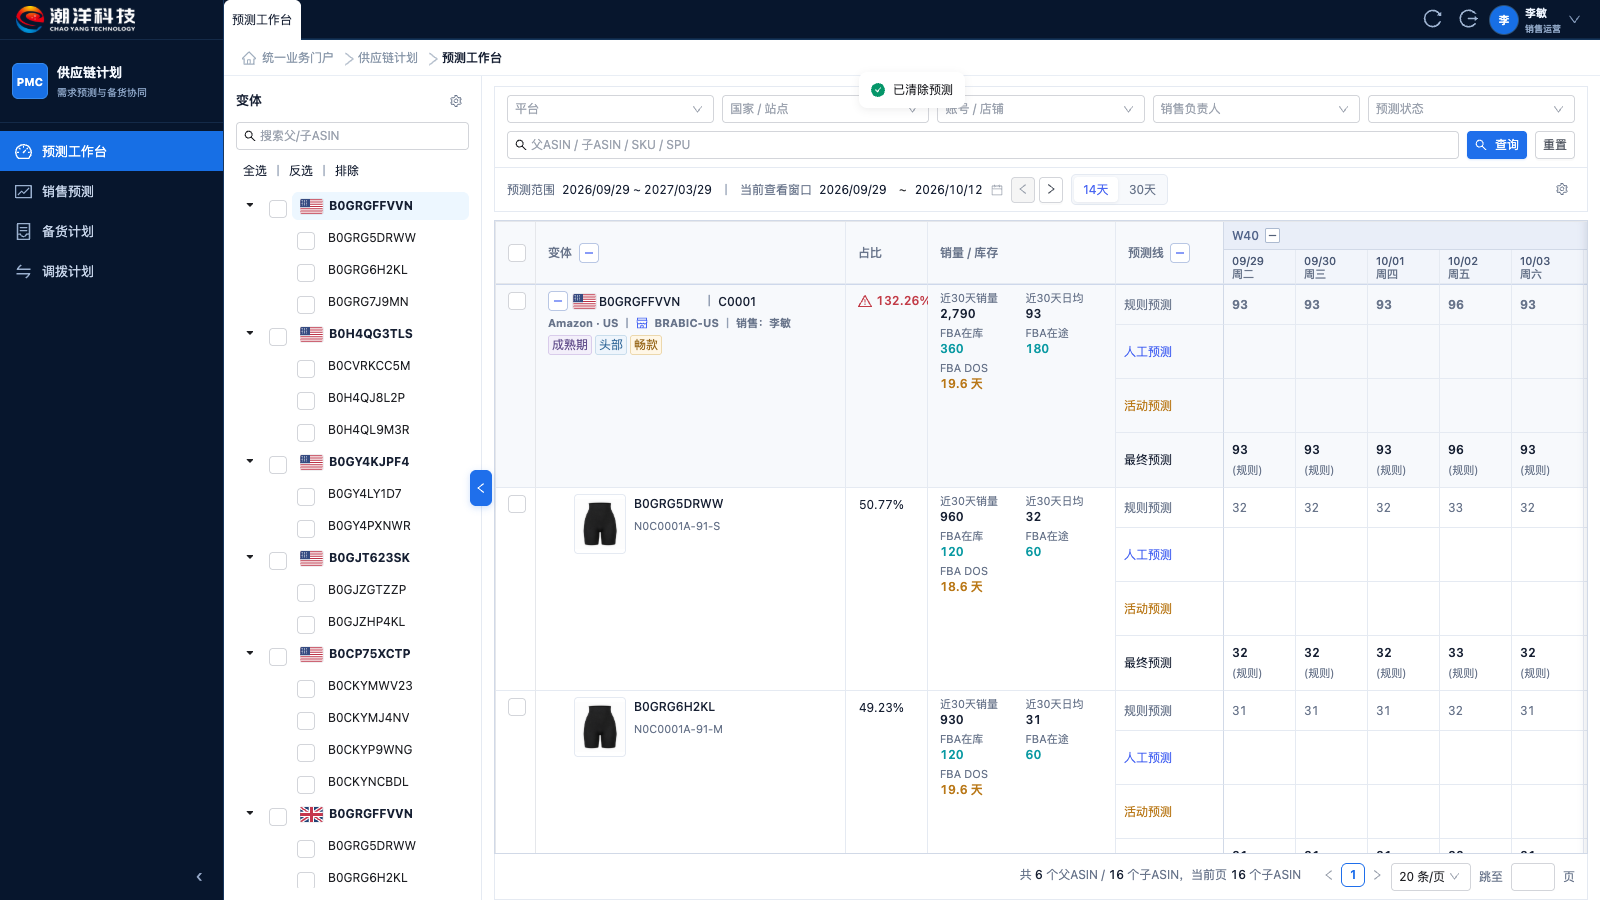
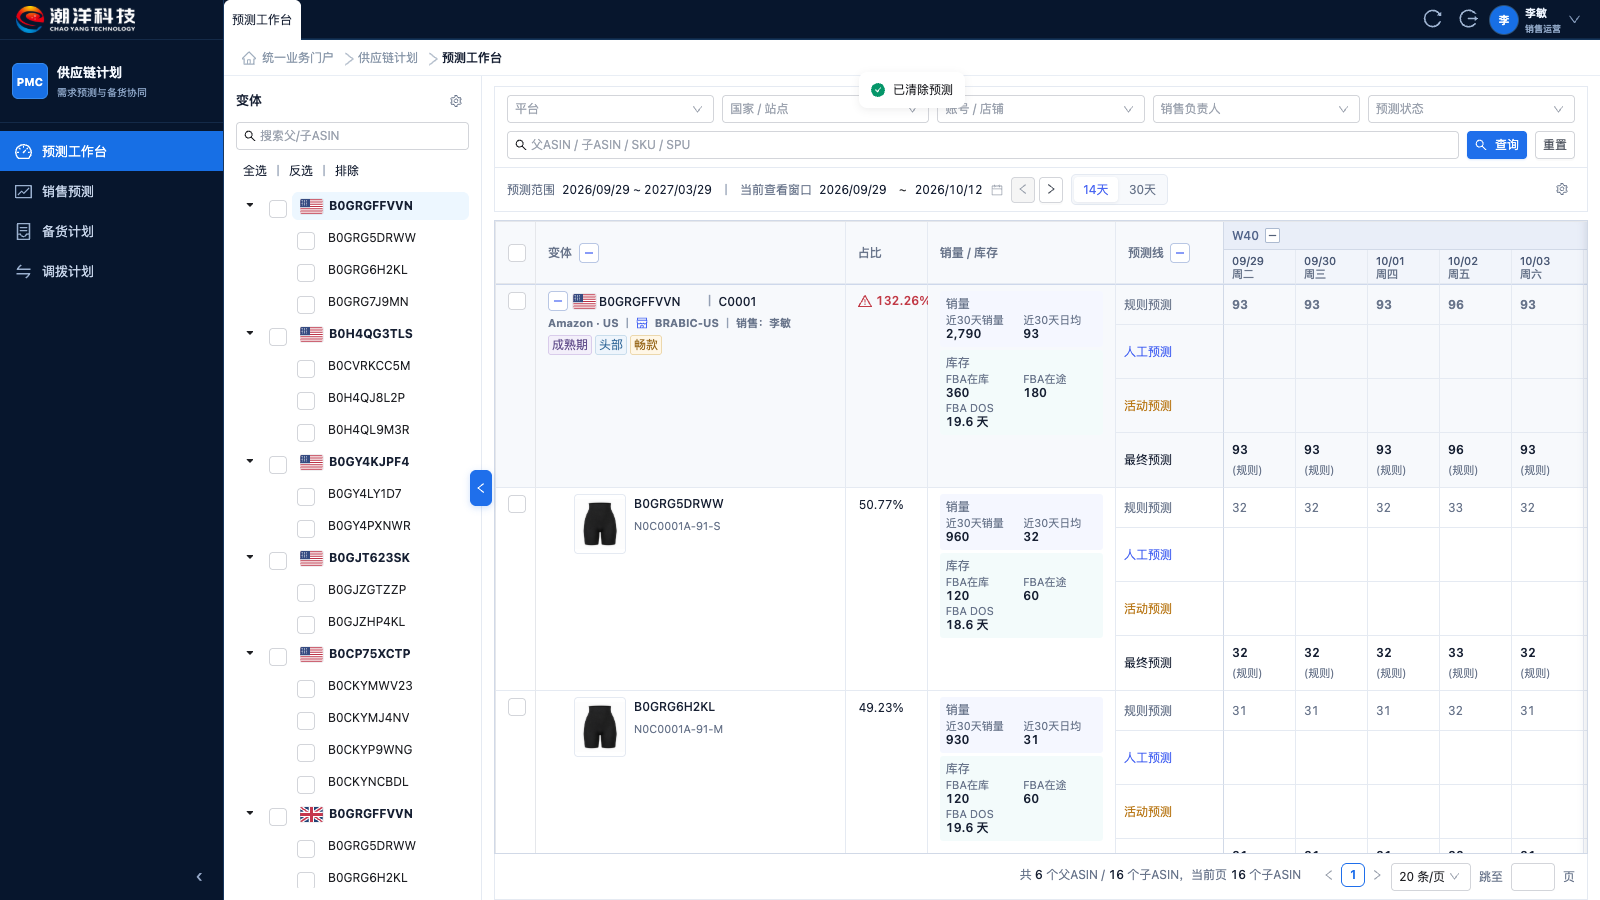
checkpoint: forecast workbench v0.3.47

diff --git a/供应链数字化_Codex完整项目接管包/04_原型/销售预测提报_独立原型_V0.1/reviews/v0.3.3-pmc11/forecast-workbench.js b/供应链数字化_Codex完整项目接管包/04_原型/销售预测提报_独立原型_V0.1/reviews/v0.3.3-pmc11/forecast-workbench.js
@@ -77,16 +77,20 @@
     );
   }
 
+  const workbenchMetricColumnKeys = ['recentSales', 'dailySales', 'fbaAvailable', 'fbaInbound', 'dos'];
   const workbenchColumnCatalog = [
+    { key: 'share', label: '占比', group: '列表字段', reorderable: false },
     { key: 'recentSales', label: '近30天销量', group: '销量 / 库存' },
     { key: 'dailySales', label: '近30天日均', group: '销量 / 库存' },
     { key: 'fbaAvailable', label: 'FBA在库', group: '销量 / 库存' },
     { key: 'fbaInbound', label: 'FBA在途', group: '销量 / 库存' },
-    { key: 'dos', label: 'FBA DOS', group: '销量 / 库存' }
+    { key: 'dos', label: 'FBA DOS', group: '销量 / 库存' },
+    { key: 'forecastLine', label: '预测线', group: '列表字段', reorderable: false },
+    { key: 'forecastPeriods', label: '日期预测', group: '列表字段', reorderable: false }
   ];
   const defaultWorkbenchColumns = workbenchColumnCatalog.map(field => field.key);
-  const compactWorkbenchColumns = ['dailySales', 'fbaAvailable', 'dos'];
-  const workbenchColumnStorageKey = 'pmc-forecast-workbench-columns-v1';
+  const compactWorkbenchColumns = ['dailySales', 'fbaAvailable', 'dos', 'forecastLine', 'forecastPeriods'];
+  const workbenchColumnStorageKey = 'pmc-forecast-workbench-columns-v2';
   const workbenchShareStorageKey = 'pmc-forecast-workbench-shares-v1';
 
   function loadStoredList(key, fallback) {
@@ -326,7 +330,7 @@
     const [treeExcludedKeys, setTreeExcludedKeys] = useState(() => new Set(restoredWorkbench.treeExcludedKeys || []));
     const [treePanelCollapsed, setTreePanelCollapsed] = useState(Boolean(restoredWorkbench.treePanelCollapsed));
     const [expandedRowKeys, setExpandedRowKeys] = useState(restoredWorkbench.expandedRowKeys || []);
-    const [expandedForecastKeys, setExpandedForecastKeys] = useState(() => new Set(restoredWorkbench.expandedForecastKeys || []));
+    const [expandedForecastKeys, setExpandedForecastKeys] = useState(() => Array.isArray(restoredWorkbench.expandedForecastKeys) ? new Set(restoredWorkbench.expandedForecastKeys) : null);
     const [hoveredColumn, setHoveredColumn] = useState(null);
     const [hoveredRow, setHoveredRow] = useState(null);
     const [page, setPage] = useState(restoredWorkbench.page || 1);
@@ -567,7 +571,7 @@
     const pageRows = useMemo(() => rows.slice((page - 1) * pageSize, page * pageSize), [page, pageSize, rows]);
     const tableRows = useMemo(() => {
       const lineRows = entity => {
-        const lines = expandedForecastKeys.has(entity.key) ? ['system', 'manual', 'activity', 'final'] : ['final'];
+        const lines = expandedForecastKeys == null || expandedForecastKeys.has(entity.key) ? ['system', 'manual', 'activity', 'final'] : ['final'];
         const { children: variantChildren, ...entityFields } = entity;
         return lines.map((forecastLine, lineIndex) => ({
           ...entityFields,
@@ -604,7 +608,11 @@
       };
     };
     const headerEvents = (columnKey, extra = '') => ({ className: columnClass(columnKey, null, extra), style: gridBorderStyle });
-    const fixedBoundaryEvents = events => ({ ...events, style: { ...events.style, borderInlineEnd: `1px solid ${uiStandards.colors?.borderStrong || '#d1d9e7'}` } });
+    const fixedBoundaryEvents = events => ({
+      ...events,
+      className: `${events.className || ''} fpw-fixed-boundary`.trim(),
+      style: { ...events.style, borderInlineEnd: `1px solid ${uiStandards.colors?.borderStrong || '#d1d9e7'}` }
+    });
 
     const defaultColumnWidth = key => key.startsWith('date:') ? forecastTableStandards.dayWidth : key.startsWith('collapsed:') ? forecastTableStandards.weekTotalWidth : ({ identity: 310, share: 82, context: 188, forecastLine: 108 }[key] || 68);
     const resizeLimits = key => key === 'identity' ? [0, 640] : key.startsWith('date:') ? [0, 180] : [0, 240];
@@ -749,7 +757,7 @@
         collapsedWeeks: [...collapsedWeeks],
         selectedKey: drawerRow.entityKey || drawerRow.key,
         expandedRowKeys: [...new Set([...expandedRowKeys, `parent:${drawerRow.group.id}`])],
-        expandedForecastKeys: [...new Set([...expandedForecastKeys, drawerRow.entityKey || drawerRow.key])],
+        expandedForecastKeys: expandedForecastKeys == null ? null : [...new Set([...expandedForecastKeys, drawerRow.entityKey || drawerRow.key])],
         treeExpandedKeys: [...treeExpandedKeys],
         treeCheckedKeys: [...treeCheckedKeys],
         treeExcludedKeys: [...treeExcludedKeys],
@@ -827,26 +835,40 @@
       dos: 'FBA可售库存按当前日均销量折算的可售天数'
     };
     const fieldTitle = (title, key) => h(Tooltip, { title: metricHints[key], mouseEnterDelay: 0.2 }, h('span', { className: 'fpw-field-title', tabIndex: 0 }, title));
-    const visibleColumnKeys = columnConfig.keys;
+    const visibleMetricKeys = columnConfig.keys.filter(key => workbenchMetricColumnKeys.includes(key));
     const forecastLineKeys = ['system', 'manual', 'activity', 'final'];
     const forecastLineLabels = { system: '规则预测', manual: '人工预测', activity: '活动预测', final: '最终预测' };
     const forecastSourceLabels = window.ForecastLedgerValues?.sourceLabels || { system: '规则', manual: '人工', activity: '活动' };
     const metricDefinitions = {
       recentSales: { label: '近30天销量', value: row => formatNumber(row.recentSales) },
       dailySales: { label: '近30天日均', value: row => formatNumber(row.dailySales) },
-      fbaAvailable: { label: 'FBA在库', value: row => formatNumber(row.fbaAvailable), tone: 'stock' },
-      fbaInbound: { label: 'FBA在途', value: row => formatNumber(row.fbaInbound), tone: 'stock' },
-      dos: { label: 'FBA DOS', value: row => row.dos == null ? '—' : `${formatNumber(row.dos)} 天`, tone: row => Number(row.dos) < 20 ? 'warn' : '' }
+      fbaAvailable: { label: 'FBA在库', value: row => formatNumber(row.fbaAvailable) },
+      fbaInbound: { label: 'FBA在途', value: row => formatNumber(row.fbaInbound) },
+      dos: { label: 'FBA DOS', value: row => row.dos == null ? '—' : `${formatNumber(row.dos)} 天` }
     };
-    const contextContent = row => h('div', { className: 'fpw-metric-grid metric-grid' }, visibleColumnKeys.map(key => {
-      const definition = metricDefinitions[key];
-      if (!definition) return null;
-      const tone = typeof definition.tone === 'function' ? definition.tone(row) : definition.tone || '';
-      return h('div', { className: 'fpw-metric metric', key },
-        h(Tooltip, { title: metricHints[key], mouseEnterDelay: 0.2 }, h('label', { tabIndex: 0 }, definition.label)),
-        h('strong', { className: tone }, definition.value(row))
-      );
-    }));
+    const contextContent = row => {
+      const sections = [];
+      visibleMetricKeys.forEach(key => {
+        const sectionKey = ['recentSales', 'dailySales'].includes(key) ? 'sales' : 'stock';
+        const sectionLabel = sectionKey === 'sales' ? '销量' : '库存';
+        if (sections.at(-1)?.key !== sectionKey) sections.push({ key: sectionKey, label: sectionLabel, fields: [] });
+        sections.at(-1).fields.push(key);
+      });
+      return h(React.Fragment, null, ...sections.map((section, sectionIndex) => h('section', {
+        className: 'fpw-context-section context-section',
+        'data-section': section.key,
+        key: `${section.key}-${sectionIndex}`
+      },
+      h('div', { className: 'fpw-context-section-title context-section-title' }, section.label),
+      h('div', { className: 'fpw-metric-grid metric-grid' }, section.fields.map(key => {
+        const definition = metricDefinitions[key];
+        return h('div', { className: 'fpw-metric metric', 'data-field': key, key },
+          h(Tooltip, { title: metricHints[key], mouseEnterDelay: 0.2 }, h('label', { tabIndex: 0 }, definition.label)),
+          h('strong', null, definition.value(row))
+        );
+      }))
+      )));
+    };
 
     const openSharedForecastEditor = (row, line, date, event) => {
       event?.stopPropagation?.();
@@ -991,7 +1013,7 @@
     );
 
     const allForecastKeys = rows.flatMap(parent => [parent.key, ...parent.children.map(child => child.key)]);
-    const allForecastExpanded = allForecastKeys.length > 0 && allForecastKeys.every(key => expandedForecastKeys.has(key));
+    const allForecastExpanded = expandedForecastKeys == null || (allForecastKeys.length > 0 && allForecastKeys.every(key => expandedForecastKeys.has(key)));
     const forecastHeaderAction = h(Tooltip, { title: allForecastExpanded ? '收起全部预测线' : '展开全部预测线' }, h(Button, {
       type: 'text', size: 'small', className: 'forecast-state-toggle fpw-forecast-toggle', icon: stateToggleGlyph(allForecastExpanded),
       'aria-label': allForecastExpanded ? '收起全部预测线' : '展开全部预测线',
@@ -1059,13 +1081,26 @@
       onHeaderCell: () => headerEvents('share', 'fpw-header-cell fpw-share-header')
     };
 
-    const columns = [
-      { title: resizableTitle('变体', 'identity', variantHeaderAction), key: 'identity', width: columnWidths.identity, fixed: 'left', render: (_, row) => identity(row), onCell: row => ({ ...cellEvents('identity', row.key, 'fpw-identity-cell'), rowSpan: row.lineIndex === 0 ? row.lineCount : 0 }), onHeaderCell: () => headerEvents('identity', 'fpw-header-cell fpw-identity-header') },
-      shareColumn,
-      visibleColumnKeys.length && { title: resizableTitle('销量 / 库存', 'context'), key: 'context', width: columnWidths.context, fixed: 'left', render: (_, row) => contextContent(row), onCell: row => ({ ...cellEvents('context', row.key, 'fpw-context-cell'), rowSpan: row.lineIndex === 0 ? row.lineCount : 0 }), onHeaderCell: () => headerEvents('context', 'fpw-header-cell fpw-context-header') },
-      { title: resizableTitle('预测线', 'forecastLine', forecastHeaderAction), key: 'forecastLine', width: columnWidths.forecastLine, fixed: 'left', render: (_, row) => forecastLineContent(row), onCell: row => fixedBoundaryEvents(cellEvents('forecastLine', row.key, 'fpw-line-cell fpw-fixed-boundary')), onHeaderCell: () => fixedBoundaryEvents(headerEvents('forecastLine', 'fpw-header-cell fpw-line-header fpw-fixed-boundary')) },
-      ...weekColumns
+    const identityColumn = { title: resizableTitle('变体', 'identity', variantHeaderAction), key: 'identity', width: columnWidths.identity, fixed: 'left', render: (_, row) => identity(row), onCell: row => ({ ...cellEvents('identity', row.key, 'fpw-identity-cell'), rowSpan: row.lineIndex === 0 ? row.lineCount : 0 }), onHeaderCell: () => headerEvents('identity', 'fpw-header-cell fpw-identity-header') };
+    const contextColumn = visibleMetricKeys.length && { title: resizableTitle('销量 / 库存', 'context'), key: 'context', width: columnWidths.context, fixed: 'left', render: (_, row) => contextContent(row), onCell: row => ({ ...cellEvents('context', row.key, 'fpw-context-cell'), rowSpan: row.lineIndex === 0 ? row.lineCount : 0 }), onHeaderCell: () => headerEvents('context', 'fpw-header-cell fpw-context-header') };
+    const forecastLineColumn = columnConfig.keys.includes('forecastLine') && { title: resizableTitle('预测线', 'forecastLine', forecastHeaderAction), key: 'forecastLine', width: columnWidths.forecastLine, fixed: 'left', render: (_, row) => forecastLineContent(row), onCell: row => cellEvents('forecastLine', row.key, 'fpw-line-cell'), onHeaderCell: () => headerEvents('forecastLine', 'fpw-header-cell fpw-line-header') };
+    const fixedColumns = [
+      identityColumn,
+      columnConfig.keys.includes('share') && shareColumn,
+      contextColumn,
+      forecastLineColumn
     ].filter(Boolean);
+    const lastFixedColumn = fixedColumns.at(-1);
+    if (lastFixedColumn) {
+      const onCell = lastFixedColumn.onCell;
+      const onHeaderCell = lastFixedColumn.onHeaderCell;
+      lastFixedColumn.onCell = row => fixedBoundaryEvents(onCell(row));
+      lastFixedColumn.onHeaderCell = () => fixedBoundaryEvents(onHeaderCell());
+    }
+    const columns = [
+      ...fixedColumns,
+      ...(columnConfig.keys.includes('forecastPeriods') ? weekColumns : [])
+    ];
     const tableScrollWidth = 40 + columns.reduce((sum, column) => sum + (column.children
       ? column.children.reduce((childSum, child) => childSum + Number(child.width || 0), 0)
       : Number(column.width || 0)), 0);
@@ -1090,7 +1125,7 @@
       setCollapsedWeeks(new Set(restored.collapsedWeeks || []));
       setSelectedKey(restored.selectedKey || navigationContext.entity.entityKey);
       setExpandedRowKeys(restored.expandedRowKeys || []);
-      setExpandedForecastKeys(new Set(restored.expandedForecastKeys || []));
+      setExpandedForecastKeys(Array.isArray(restored.expandedForecastKeys) ? new Set(restored.expandedForecastKeys) : null);
       setTreeExpandedKeys(restored.treeExpandedKeys || []);
       setTreeCheckedKeys(restored.treeCheckedKeys || []);
       setTreeExcludedKeys(new Set(restored.treeExcludedKeys || []));
@@ -1261,7 +1296,8 @@
     const templateOptions = [{ value: 'default', label: '默认配置' }, { value: 'compact', label: '精简查看' }, ...(columnDraft?.templates || []).map((template, index) => ({ value: `saved-${index}`, label: template.name }))];
     const selectedColumnRow = (field, index, firstKey) => {
       const pinned = columnDraft.pinned.includes(field.key);
-      const movable = !pinned;
+      const supportsPositioning = field.reorderable !== false;
+      const movable = supportsPositioning && !pinned;
       const quickAction = (label, iconName, onClick, disabled = false, pressed = undefined) => h(Button, { type: 'text', size: 'small', className: `column-quick-action ${pressed ? 'is-pinned' : ''}`, icon: icon(iconName), 'aria-label': `${label}${field.label}`, 'aria-pressed': pressed, disabled, onClick });
       return h('div', {
         className: `antd-selected-field-row ${columnDropKey === field.key ? 'is-drop-target' : ''}`,
@@ -1280,13 +1316,13 @@
           if (target) reorderColumn(field.key, target.key, event.key === 'ArrowDown');
         }
       },
-      h('span', { className: 'antd-selected-field-drag', 'aria-hidden': true }, icon('HolderOutlined')),
+      h('span', { className: `antd-selected-field-drag ${supportsPositioning ? '' : 'is-locked'}`.trim(), 'aria-hidden': true }, icon(supportsPositioning ? 'HolderOutlined' : 'MinusOutlined')),
       h('span', { className: 'antd-selected-field-number' }, index + 1),
       h('span', { className: 'antd-selected-field-name' }, field.label),
       h('span', { className: `antd-selected-field-tools ${pinned ? 'has-pin' : ''}` },
         quickAction('移除', 'CloseCircleOutlined', () => toggleColumn(field.key, false)),
-        quickAction('置顶', 'VerticalAlignTopOutlined', () => moveColumnToTop(field), !movable || field.key === firstKey),
-        h(Tooltip, { title: pinned ? '取消组内位置固定' : '固定组内位置' }, quickAction(pinned ? '取消固定' : '固定', 'PushpinOutlined', () => toggleColumnPin(field), false, pinned))
+        supportsPositioning && quickAction('置顶', 'VerticalAlignTopOutlined', () => moveColumnToTop(field), !movable || field.key === firstKey),
+        supportsPositioning && h(Tooltip, { title: pinned ? '取消组内位置固定' : '固定组内位置' }, quickAction(pinned ? '取消固定' : '固定', 'PushpinOutlined', () => toggleColumnPin(field), false, pinned))
       ));
     };
     const columnDrawerBody = columnDraft && h(React.Fragment, null,
@@ -1316,9 +1352,9 @@
           ))
         ),
         h('section', { className: 'antd-column-selected', 'aria-label': '已选字段' },
-          h('div', { className: 'antd-column-selected-header' }, h('strong', null, `已选（${selectedColumnFields.length + 4}）`), h('span', null, '最多可固定7项 · 组内位置')),
+          h('div', { className: 'antd-column-selected-header' }, h('strong', null, `已选（${selectedColumnFields.length + 1}）`), h('span', null, '最多可固定7项 · 组内位置')),
           h('div', { className: 'antd-selected-scroll' },
-            h('div', { className: 'antd-selected-group' }, h('div', { className: 'antd-selected-group-title' }, '固定字段'), ['变体', '占比', '预测线', '日期预测'].map((label, index) => h('div', { className: 'antd-selected-field-row', key: label }, h('span', { className: 'antd-selected-field-drag is-locked', 'aria-hidden': true }, icon('LockOutlined')), h('span', { className: 'antd-selected-field-number' }, index + 1), h('span', { className: 'antd-selected-field-name' }, label), h(Tooltip, { title: '结构固定' }, h('span', { className: 'column-fixed-icon' }, icon('LockOutlined')))))),
+            h('div', { className: 'antd-selected-group' }, h('div', { className: 'antd-selected-group-title' }, '必备字段'), h('div', { className: 'antd-selected-field-row', key: 'identity' }, h('span', { className: 'antd-selected-field-drag is-locked', 'aria-hidden': true }, icon('LockOutlined')), h('span', { className: 'antd-selected-field-number' }, 1), h('span', { className: 'antd-selected-field-name' }, '变体'), h(Tooltip, { title: '不可移除' }, h('span', { className: 'column-fixed-icon' }, icon('LockOutlined'))))),
             columnGroups.map(group => {
               const fields = selectedColumnFields.filter(field => field.group === group);
               const first = fields.find(field => !columnDraft.pinned.includes(field.key))?.key;

diff --git a/供应链数字化_Codex完整项目接管包/04_原型/销售预测提报_独立原型_V0.1/reviews/v0.3.3-pmc11/forecast-workbench.css b/供应链数字化_Codex完整项目接管包/04_原型/销售预测提报_独立原型_V0.1/reviews/v0.3.3-pmc11/forecast-workbench.css
@@ -239,6 +239,12 @@ body:has(.pmc-workspace.forecast-workbench-view:not([hidden])) { overflow-x: cli
 .forecast-workbench-root .fpw-table .ant-table-tbody > tr.fpw-parent-row:hover > td { background-color: var(--forecast-parent-row-bg); }
 .forecast-workbench-root .fpw-table .ant-table-tbody > tr.fpw-child-row:hover > td:not(.fpw-forecast-cell) { background-color: var(--surface); }
 .forecast-workbench-root .fpw-table .ant-table-tbody > tr.fpw-child-row:hover > td.fpw-forecast-cell { background-color: inherit; }
+.forecast-workbench-root .fpw-table .ant-table-tbody > tr.fpw-child-row > td.fpw-identity-cell.ant-table-cell-row-hover,
+.forecast-workbench-root .fpw-table .ant-table-tbody > tr.fpw-child-row > td.fpw-share-cell.ant-table-cell-row-hover,
+.forecast-workbench-root .fpw-table .ant-table-tbody > tr.fpw-child-row > td.fpw-context-cell.ant-table-cell-row-hover { background-color: var(--ui-color-bg-container, #fff); }
+.forecast-workbench-root .fpw-table .ant-table-tbody > tr.fpw-parent-row > td.fpw-identity-cell.ant-table-cell-row-hover,
+.forecast-workbench-root .fpw-table .ant-table-tbody > tr.fpw-parent-row > td.fpw-share-cell.ant-table-cell-row-hover,
+.forecast-workbench-root .fpw-table .ant-table-tbody > tr.fpw-parent-row > td.fpw-context-cell.ant-table-cell-row-hover { background-color: var(--forecast-parent-row-bg); }
 .fpw-table .fpw-cross-row > td.fpw-line-cell,
 .fpw-table .fpw-cross-row > td.fpw-forecast-cell { --cross-row: var(--forecast-cross-color); }
 .fpw-table .fpw-cross-column { --cross-column: var(--forecast-cross-color); }
@@ -335,11 +341,16 @@ body.fpw-is-resizing { cursor: col-resize; user-select: none; }
 .fpw-share-warning svg { width: 14px; height: 14px; }
 .fpw-share-reason { display: grid; gap: 4px; max-width: 300px; font-size: 12px; }
 .fpw-share-reason strong { margin-bottom: 2px; color: var(--ink); }
-.fpw-context-cell { min-width: 0; padding: 8px 10px; }
-.fpw-metric-grid { display: grid; grid-template-columns: repeat(2, minmax(0, 1fr)); gap: 5px 8px; }
-.fpw-metric { min-width: 0; }
-.fpw-metric label { display: block; overflow: hidden; color: var(--muted); font-size: 11px; font-weight: 400; line-height: 14px; text-overflow: ellipsis; white-space: nowrap; cursor: help; }
-.fpw-metric strong { display: block; overflow: hidden; margin-top: 1px; color: var(--ink); font-size: 12px; font-weight: 600; line-height: 15px; text-overflow: ellipsis; white-space: nowrap; font-variant-numeric: tabular-nums; }
+.fpw-context-cell { min-width: 0; padding: 4px 6px; }
+.fpw-context-section { padding: 6px; border-radius: 3px; }
+.fpw-context-section + .fpw-context-section { margin-top: 3px; }
+.fpw-context-section[data-section='sales'] { background-color: color-mix(in srgb, var(--blue-2) 50%, var(--surface)); }
+.fpw-context-section[data-section='stock'] { background-color: color-mix(in srgb, var(--cyan-2) 50%, var(--surface)); }
+.fpw-context-section-title { margin-bottom: 2px; color: var(--muted); font-size: 12px; font-weight: 400; line-height: 14px; }
+.forecast-workbench-root .fpw-context-section .fpw-metric-grid { display: grid; grid-template-columns: repeat(2, minmax(0, 1fr)); gap: 1px 4px; }
+.fpw-metric { min-width: 0; min-height: 25px; }
+.forecast-workbench-root .fpw-context-section .fpw-metric label { display: block; overflow: hidden; color: var(--muted); font-size: 11px; font-weight: 400; line-height: 14px; text-overflow: ellipsis; white-space: nowrap; cursor: help; }
+.forecast-workbench-root .fpw-context-section .fpw-metric strong { display: block; overflow: hidden; margin-top: 0; color: var(--ink); font-size: 12px; font-weight: 600; line-height: 14px; text-overflow: ellipsis; white-space: nowrap; font-variant-numeric: tabular-nums; }
 
 .fpw-line-label,
 .fpw-line-value { min-width: 0; min-height: calc(var(--forecast-system-row-height) - 1px); display: flex; align-items: center; }
@@ -367,6 +378,7 @@ body.fpw-is-resizing { cursor: col-resize; user-select: none; }
 .forecast-workbench-root .fpw-table .ant-table-tbody > tr > td.fpw-forecast-cell { padding: 0; }
 .fpw-entry-button { cursor: pointer; }
 .fpw-forecast-entry-wrap { width: 100%; padding: 6px 8px; }
+.fpw-forecast-entry-wrap:has(.fpw-entry-button.fpw-entry-empty) { justify-content: center; }
 .fpw-forecast-entry-wrap .fpw-entry-button { color: inherit; }
 .fpw-forecast-entry-wrap .fpw-entry-button.fpw-entry-value { justify-content: start; }
 .fpw-forecast-entry-wrap .fpw-entry-button.fpw-entry-empty { place-content: center; }

diff --git a/供应链数字化_Codex完整项目接管包/04_原型/销售预测提报_独立原型_V0.1/reviews/v0.3.3-pmc11/index.html b/供应链数字化_Codex完整项目接管包/04_原型/销售预测提报_独立原型_V0.1/reviews/v0.3.3-pmc11/index.html
@@ -446,7 +446,7 @@
   <link rel="stylesheet" href="parent-asin-config12.css?v=0.3.3-config12" />
   <link rel="stylesheet" href="forecast-plan.css?v=0.3.32-pmc-refinement" />
   <link rel="stylesheet" href="portal-shell.css?v=0.3.26-portal-shell-menu" />
-  <link rel="stylesheet" href="forecast-workbench.css?v=0.3.45-batch-detail-flow" />
+  <link rel="stylesheet" href="forecast-workbench.css?v=0.3.47-workbench-table-governance" />
 </head>
 <body>
   <div class="app portal-shell">
@@ -1141,7 +1141,7 @@
     <script src="forecast-batch-model.js?v=0.3.32-pmc-refinement"></script>
   <script src="forecast-source-import.js?v=0.3.20-pmc-same-ledger"></script>
     <script src="forecast-plan-workspace.js?v=0.3.32-pmc-refinement"></script>
-    <script src="forecast-workbench.js?v=0.3.45-batch-detail-flow"></script>
+    <script src="forecast-workbench.js?v=0.3.47-workbench-table-governance"></script>
     <script src="pmc-workflow.js?v=0.3.45-batch-detail-flow"></script>
     <script src="submission-window.js?v=0.3.32-pmc-refinement"></script>
 </body>

diff --git a/供应链数字化_Codex完整项目接管包/design-system/tables.md b/供应链数字化_Codex完整项目接管包/design-system/tables.md
@@ -24,6 +24,7 @@
 - 父 ASIN 是聚合行；子 ASIN 展开后规则/人工/活动/最终为独立 `tr`。
 - 身份、尺码、上下文使用 `rowspan`，不得把四条预测线塞进同一视觉行。
 - 只在日期矩阵显示十字高亮。
+- 日期格触发十字高亮时，变体、占比、销量 / 库存等 `rowspan` 固定业务列必须保持原底色；必须覆盖 Ant Table 自动添加的行 Hover 状态，不得让高亮越过预测线边界。
 - 一次 hover 只允许一个当前行、一个当前列和一个当前格；移入固定业务列或移出矩阵后必须立即清除。
 - 规则、人工/活动、最终预测行高依次为 `40px / 54px / 55px`，与 Golden Reference 的计算样式一致。
 
